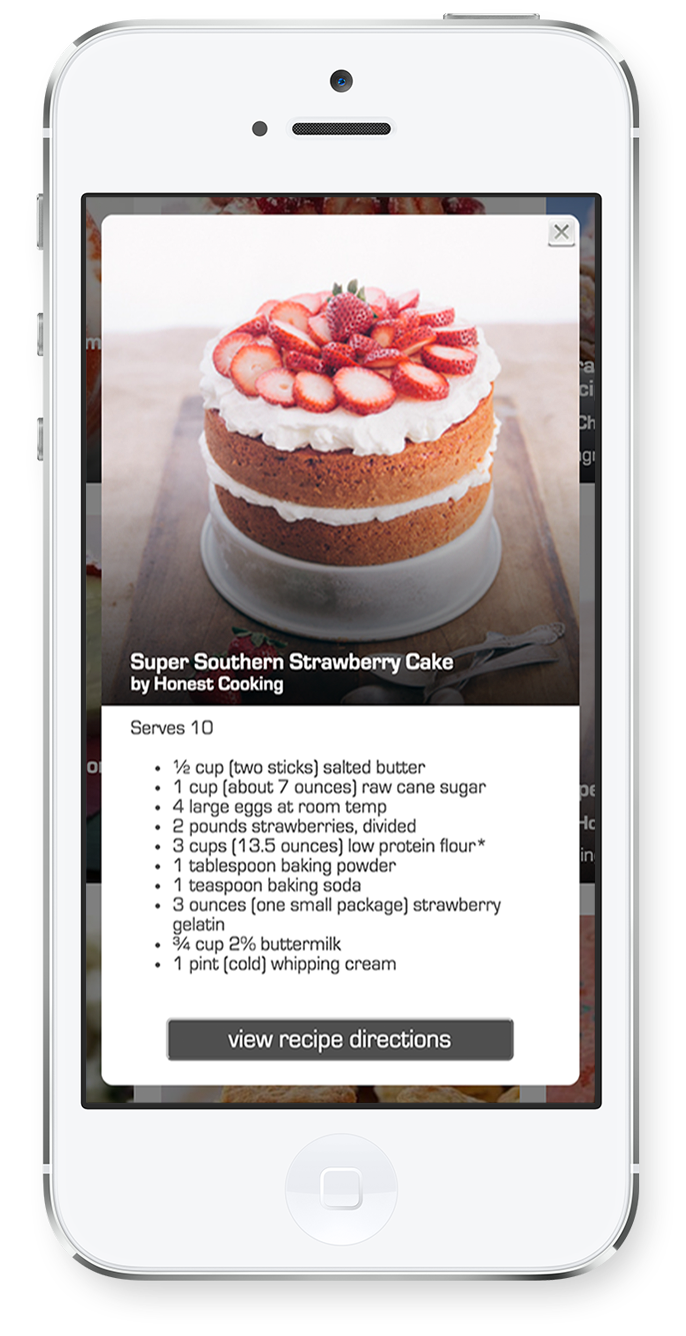
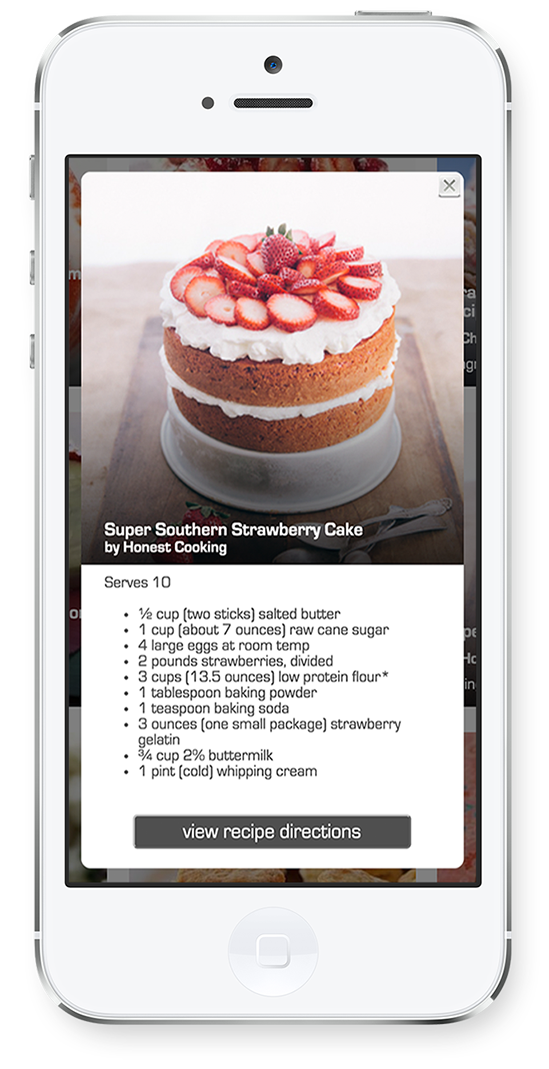
cursor turns to pointer on button hover, fixed spacing around device images, reduced device image file size

Changed region(s): [[0.2477, 0.5865, 0.6193, 0.71], [0.2168, 0.4939, 0.4026, 0.5248], [0.3406, 0.7717, 0.3716, 0.8026]]

diff --git a/index.css b/index.css
@@ -76,7 +76,7 @@ footer, .push {
 }
 
 .add-ingredients-container {
-  min-height: 50px;
+  min-height: 37px;
   width: 310px;
   margin: 0 auto;
 }
@@ -111,6 +111,11 @@ input {
   font-size: 1.3em;
   padding: 5px;
 }
+
+.button:hover {
+  cursor: pointer;
+}
+
 
 .add-ingredient-button {
   position: relative;
@@ -157,7 +162,8 @@ input {
 }
 
 .iphone-image {
-  width: 50%;
+  width: 40%;
+  padding-bottom: 30px;
   /*margin: 80px;*/
 }
 
@@ -261,6 +267,10 @@ input {
   right: 0px;
   width: 30px;
   height: 30px;
+}
+
+.close-button:hover {
+  cursor: pointer;
 }
 
 .ingredients-list {
@@ -380,6 +390,12 @@ input {
   .add-ingredients-container {
     width: 750px;
   }
+
+  .ipad-image {
+    width: 80%;
+    margin: 0 auto;
+    padding: 0 80px;
+  }
 }
 
 @media only screen and (min-width: 1000px) {
@@ -426,7 +442,8 @@ input {
   }
 
   .ipad-image {
-    width: 80%;
+    width: 70%;
+    padding: 0;
     margin: 50px auto 0 auto;
   }
 
@@ -438,9 +455,9 @@ input {
 
   .iphone-image {
     margin: 20px auto;
-    width: 60%;
-    /*float: left;*/
-    /*margin: 80px;*/
+    width: 40%;
+    padding-bottom: 0;
+    padding-top: 20px;
   }
 
   .message-with-ipad {
@@ -463,14 +480,42 @@ input {
   .message-with-iphone {
     padding: 30px;
     position: relative;
-    top: 180px;
+    top: 140px;
     right: 70px;
+  }
+}
 
-    /*margin: 0 auto;*/
-/*
-    position: absolute;
-    top: 50%;
-    left: 0;
-    transform: translateY(-50%);*/*/
+@media only screen and (min-width: 1300px) {
+  .message-with-iphone {
+    top: 160px;
+    right: 90px;
+  }
+}
+
+@media only screen and (min-width: 1400px) {
+  .message-with-iphone {
+    top: 170px;
+    right: 100px;
+  }
+}
+
+@media only screen and (min-width: 1500px) {
+  .message-with-iphone {
+    top: 190px;
+    right: 120px;
+  }
+}
+
+@media only screen and (min-width: 1600px) {
+  .message-with-iphone {
+    top: 190px;
+    right: 140px;
+  }
+}
+
+@media only screen and (min-width: 1700px) {
+  .message-with-iphone {
+    top: 200px;
+    right: 150px;
   }
 }

diff --git a/index.html b/index.html
@@ -46,7 +46,7 @@
         </div>
       </div>
       <div class="results js-results row"></div>
-      <p class="hidden" id="no-results-message">Try removing one ingredient or check your spelling to find recipes.</p>
+      <p class="hidden" id="no-results-message">Try removing one ingredient or check your spelling to find more recipes.</p>
     </main>
     <div class="modal js-modal hidden">
       <div class="dark"></div>
